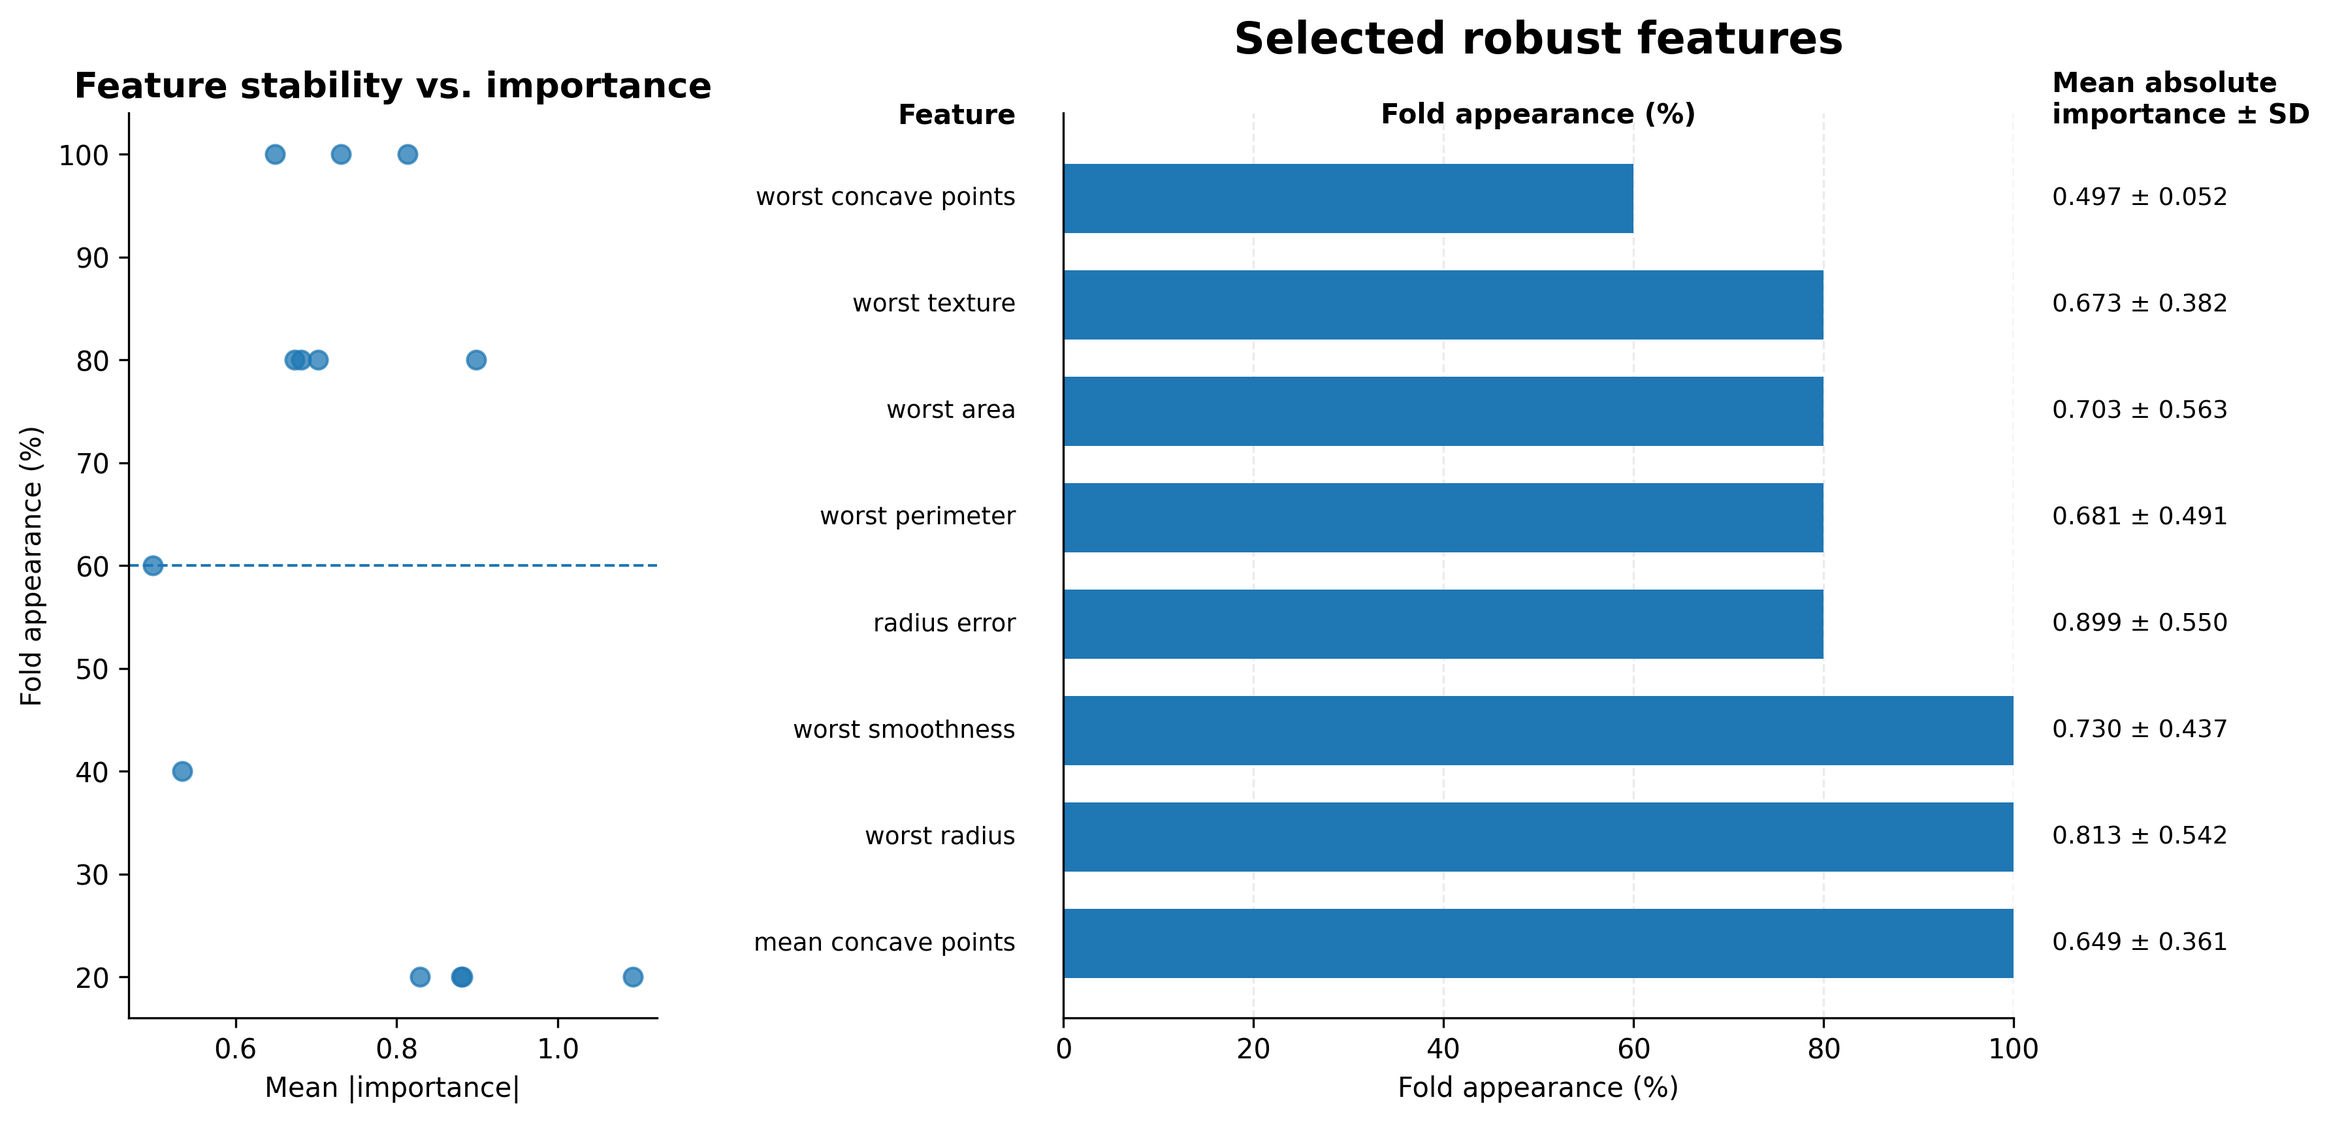
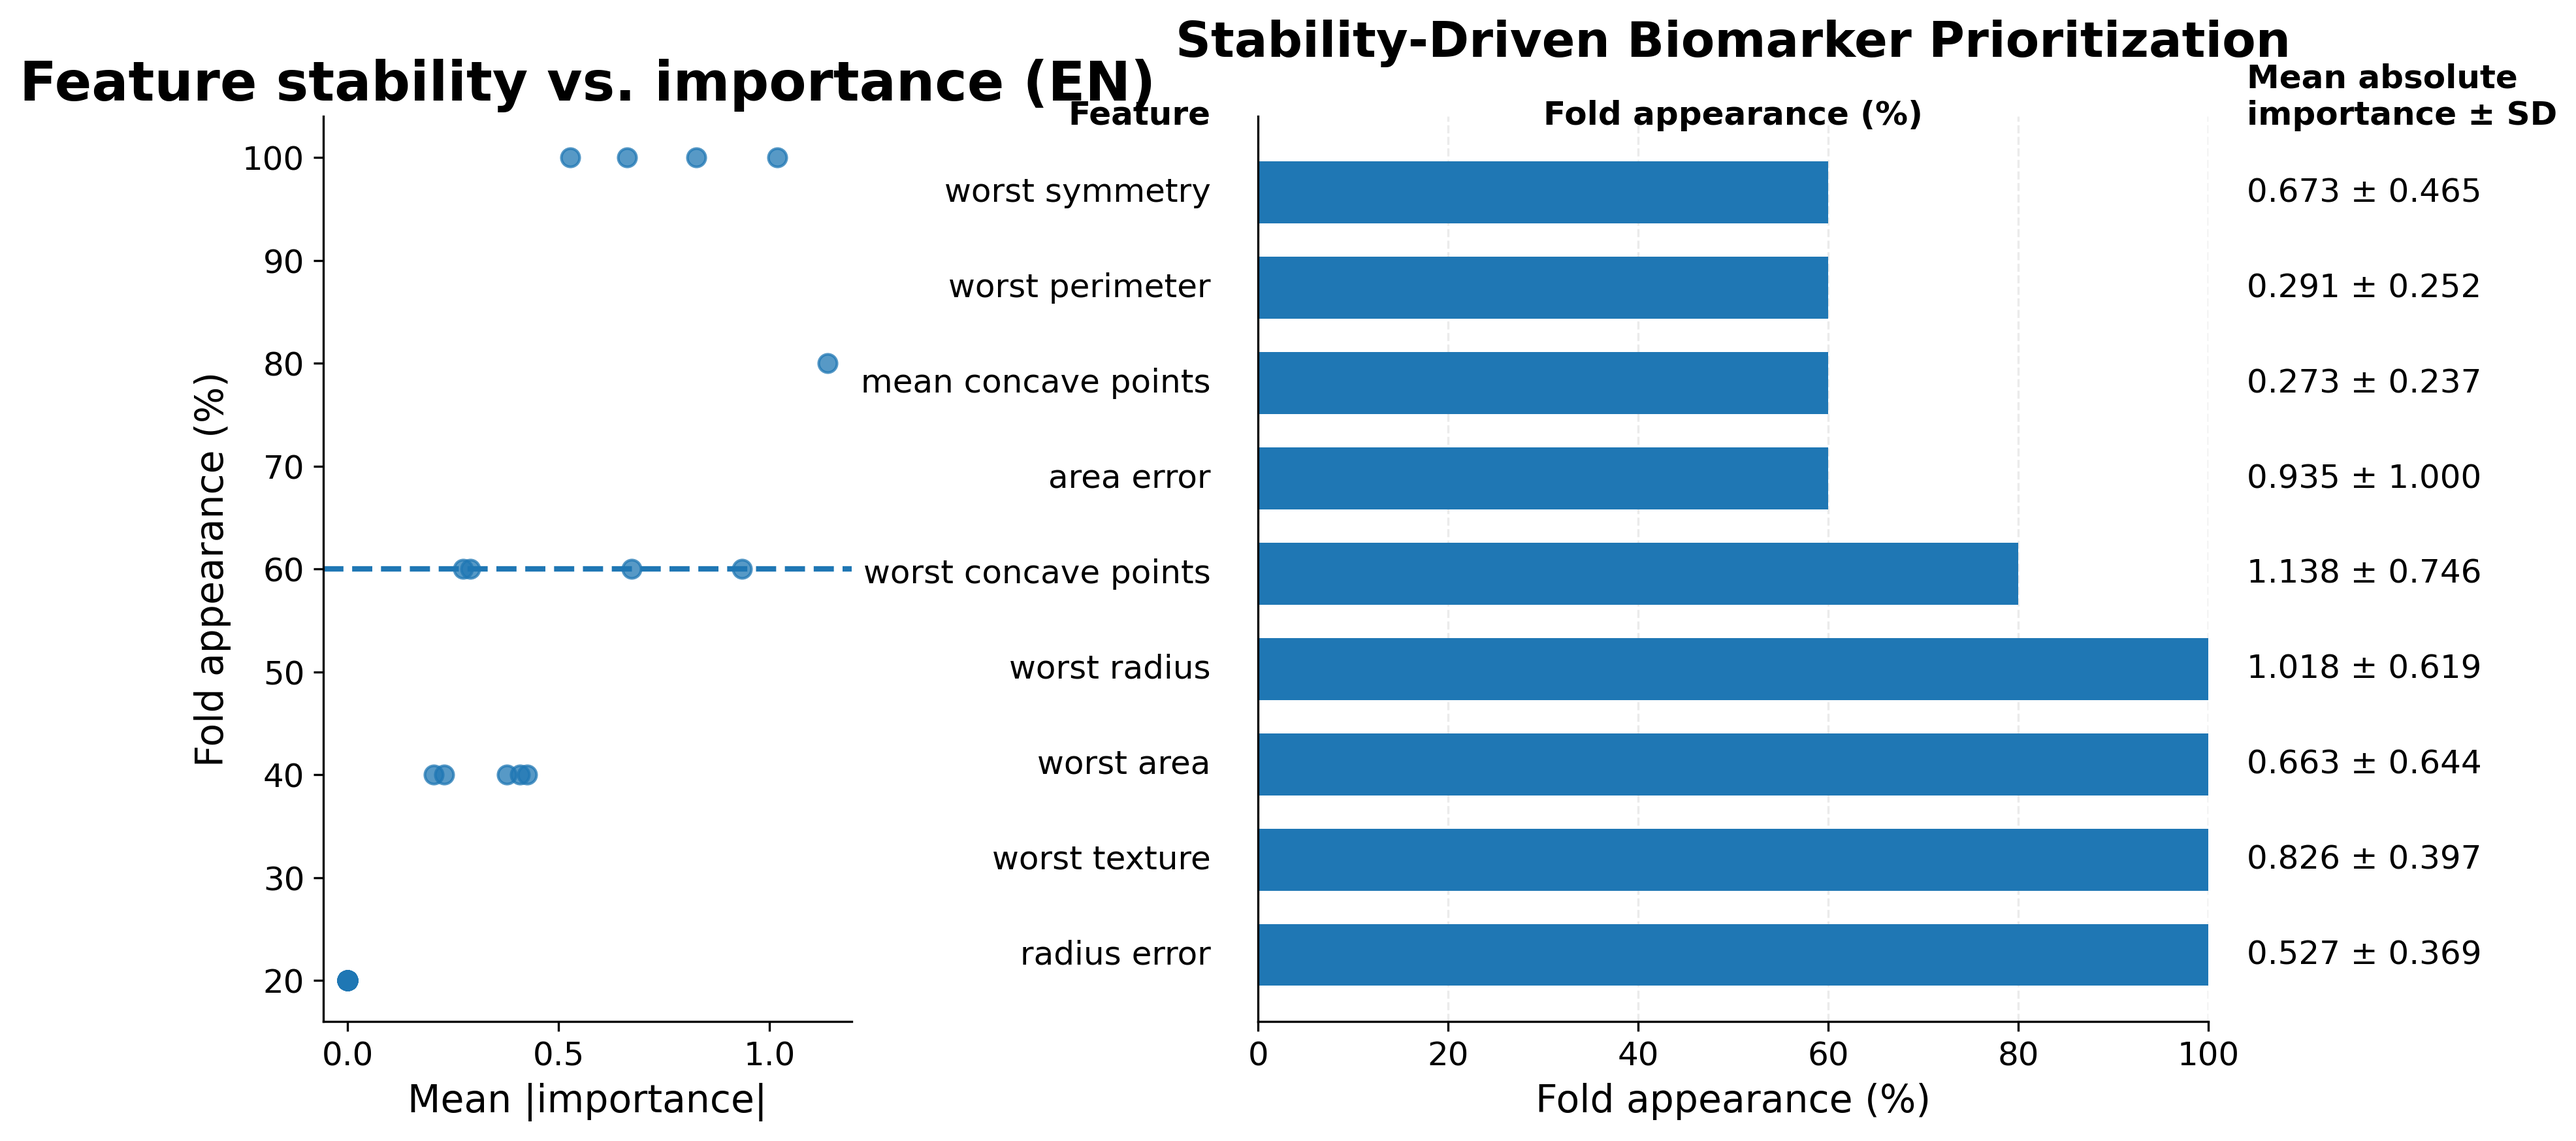
Update README and output

diff --git a/src/biomarkerML_pipeline/evaluation.py b/src/biomarkerML_pipeline/evaluation.py
@@ -89,12 +89,13 @@ def analyze_feature_stability_importance_each_model(model_name,feature_importanc
     alpha=0.75,
     s=45)
 
-    axes[0].axhline(fold_cutoff* 100, linestyle="--", linewidth=1)
+    axes[0].axhline(fold_cutoff* 100, linestyle="--", linewidth=2)
 #    axes[0].axvline(importance_cutoff, linestyle="--", linewidth=1)
 
-    axes[0].set_xlabel("Mean |importance|")
-    axes[0].set_ylabel("Fold appearance (%)")
-    axes[0].set_title("Feature stability vs. importance",fontsize=13, fontweight="bold")
+    axes[0].set_xlabel("Mean |importance|",fontsize=14)
+    axes[0].set_ylabel("Fold appearance (%)",fontsize=14)
+    axes[0].tick_params(axis="both", labelsize=12)
+    axes[0].set_title(f"Feature stability vs. importance ({model_name})",fontsize=20, fontweight="bold")
 
     ####with the selected features
     selected = agg[
@@ -118,10 +119,11 @@ def analyze_feature_stability_importance_each_model(model_name,feature_importanc
     axes[1].set_ylim(-0.7, len(selected) - 0.2)
 
     axes[1].set_yticks([])
-    axes[1].set_xlabel("Fold appearance (%)")
+    axes[1].set_xlabel("Fold appearance (%)",fontsize=14)
+    axes[1].tick_params(axis="x", labelsize=12)
     axes[1].set_title(
-    "Selected robust features",
-    fontsize=16,
+    "Stability-Driven Biomarker Prioritization",
+    fontsize=18,
     fontweight="bold",
     pad=22)
 
@@ -140,7 +142,7 @@ def analyze_feature_stability_importance_each_model(model_name,feature_importanc
         row["gene"],
         ha="right",
         va="center",
-        fontsize=9,
+        fontsize=12,
         clip_on=False)
 
         axes[1].text(
@@ -149,7 +151,7 @@ def analyze_feature_stability_importance_each_model(model_name,feature_importanc
         f'{row["mean_importance"]:.3f} ± {row["sd_importance"]:.3f}',
         ha="left",
         va="center",
-        fontsize=9,
+        fontsize=12,
         clip_on=False)
 
     axes[1].text(
@@ -158,7 +160,7 @@ def analyze_feature_stability_importance_each_model(model_name,feature_importanc
     "Feature",
     ha="right",
     va="bottom",
-    fontsize=10,
+    fontsize=12,
     fontweight="bold",
     clip_on=False)
 
@@ -168,7 +170,7 @@ def analyze_feature_stability_importance_each_model(model_name,feature_importanc
     "Fold appearance (%)",
     ha="center",
     va="bottom",
-    fontsize=10,
+    fontsize=12,
     fontweight="bold")
 
     axes[1].text(
@@ -177,7 +179,7 @@ def analyze_feature_stability_importance_each_model(model_name,feature_importanc
     "Mean absolute\nimportance ± SD",
     ha="left",
     va="bottom",
-    fontsize=10,
+    fontsize=12,
     fontweight="bold",
     clip_on=False)
 

diff --git a/scripts/run_breast_cancer_demo.py b/scripts/run_breast_cancer_demo.py
@@ -1,8 +1,10 @@
-from biomarkerML_pipeline.load_demo_breat_cancer_data import load_demo_data
-from biomarkerML_pipeline import BiomarkerMLPipeline
+from biomarkerML_pipeline import (
+    BiomarkerMLPipeline,
+    load_demo_data
+)
 import pandas as pd
 import numpy as np
-from sklearn.model_selection import StratifiedKFold
+from sklearn.model_selection import train_test_split
 from pathlib import Path
 
 if __name__ == "__main__":
@@ -10,6 +12,7 @@ if __name__ == "__main__":
     output_dir = PROJECT_ROOT/"outputs"/"breast_cancer_demo"
     output_dir.mkdir(parents=True, exist_ok=True)
 
+    X, y = load_demo_data()
     X_discovery, X_holdout, y_discovery, y_holdout = train_test_split(
     X,
     y,

diff --git a/README.md b/README.md
@@ -3,6 +3,7 @@
 A machine learning framework for stability-driven biomarker prioritization using cross-validation feature importance, feature stability, and multi-model consensus analysis.
 
 ## Overview
+![Consensus features across models](outputs/breast_cancer_demo/feature_selection_consensus_heatmap.png)
 
 Biomarker discovery studies often rely on a single machine learning model, which can introduce model-specific feature selection bias and unstable biomarker prioritization.
 
@@ -21,7 +22,7 @@ The framework integrates regularized linear and nonlinear machine learning model
 - Outer cross-validation for feature importance and stability assessment
 - Cross-model consensus analysis to reduce model-specific feature selection bias
 - SHAP and model-specific feature importance support for interpretable machine learning
-- Publication-ready visualization outputs for biomarker stability and model performance
+- Publication ready visualizations for biomarker stability, cross-model consensus analysis, and model performance
 - Modular and extensible Python implementation for translational multi-omics workflows
  
 ## Supported Models
@@ -62,6 +63,7 @@ stability-driven-biomarker-ml/
 ├── scripts/       # Example analysis workflows
 ├── configs/       # Customizable model hyperparameter configuration files
 ├── outputs/       # Generated figures and result tables
+├── LICENSE
 ├── README.md
 ├── requirements.txt
 └── pyproject.toml
@@ -71,7 +73,7 @@ stability-driven-biomarker-ml/
 ```bash
 git clone https://github.com/lingdi-zhang/stability-driven-biomarker-ml.git
 cd stability-driven-biomarker-ml
-pip install -r requirements.txt
+pip install -e .
 ```
 
 ## Requirements
@@ -89,7 +91,7 @@ pip install -r requirements.txt
 ### Read in customized or default model hyperparameters
 
 ```python
-from biomarkerML_pipeline.biomarkerML_pipeline import BiomarkerMLPipeline
+from  biomarkerML_pipeline import BiomarkerMLPipeline
 import pandas as pd
 outer_cv_params = pd.read_csv("configs/model_params.txt",sep="\t")
 feature_selection_model_params=pd.read_csv("configs/feature_selection_params.txt",sep="\t")
@@ -304,6 +306,10 @@ This approach helps:
 By combining feature importance, cross-validation stability, and cross-model consensus, the framework prioritizes biomarkers that are more likely to generalize across independent datasets and analytical approaches.
 
 Additional machine learning models can be incorporated into the framework through the modular architecture.
+
+## License
+
+This project is released under the MIT License. See the LICENSE file for details.
 
 ## Contact
 
